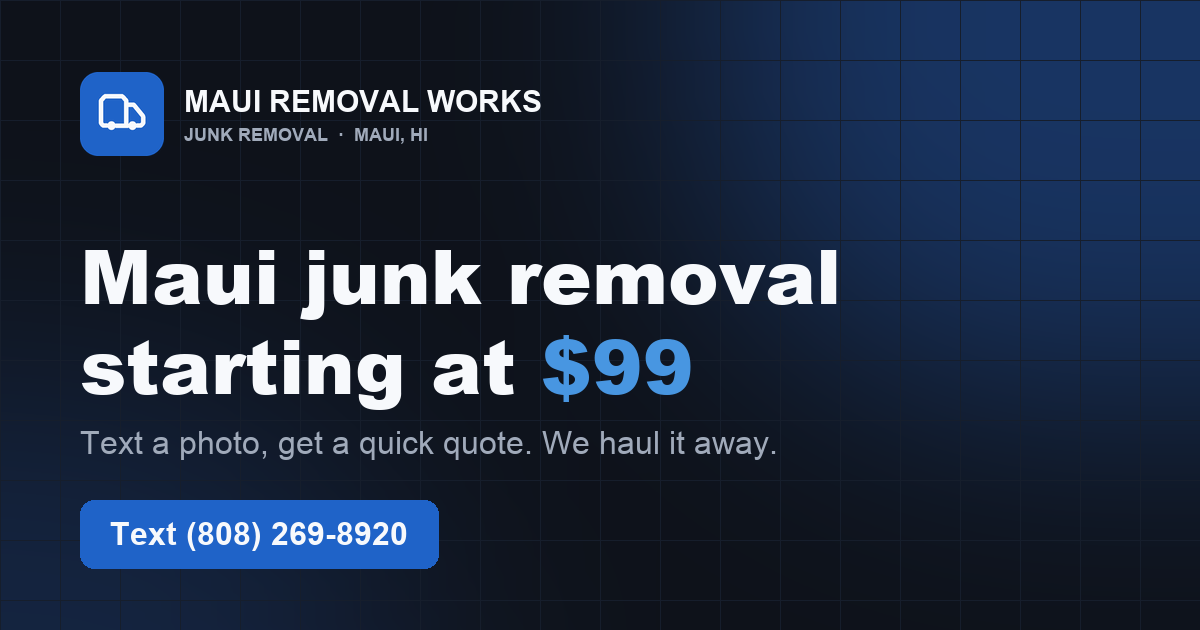
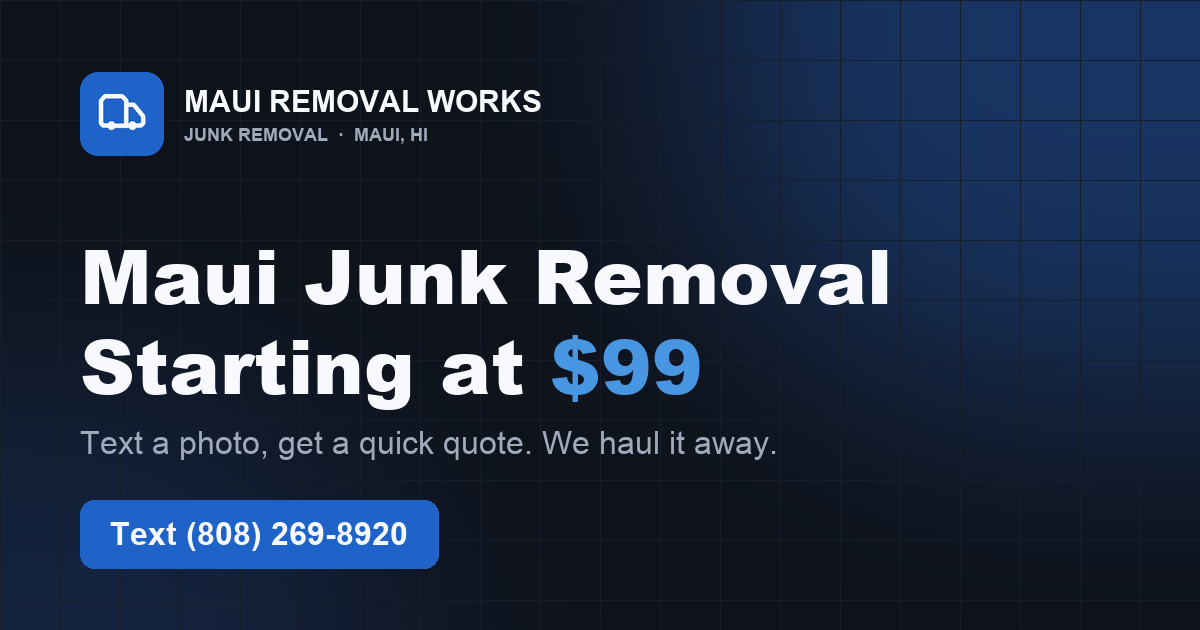
Title-case the hero headline and preview image

Changed region(s): [[0.0617, 0.5127, 0.5858, 0.6635], [0.2467, 0.3921, 0.74, 0.5127]]

diff --git a/src/routes/index.tsx b/src/routes/index.tsx
@@ -235,7 +235,7 @@ function Hero() {
         </div>
 
         <h1 className="mx-auto max-w-3xl font-display text-5xl font-extrabold leading-[1.05] tracking-tight text-foreground sm:text-6xl lg:text-7xl">
-          Maui junk removal starting at{" "}
+          Maui Junk Removal Starting at{" "}
           <span className="bg-gradient-to-r from-primary-glow to-primary bg-clip-text text-transparent">
             $99
           </span>
